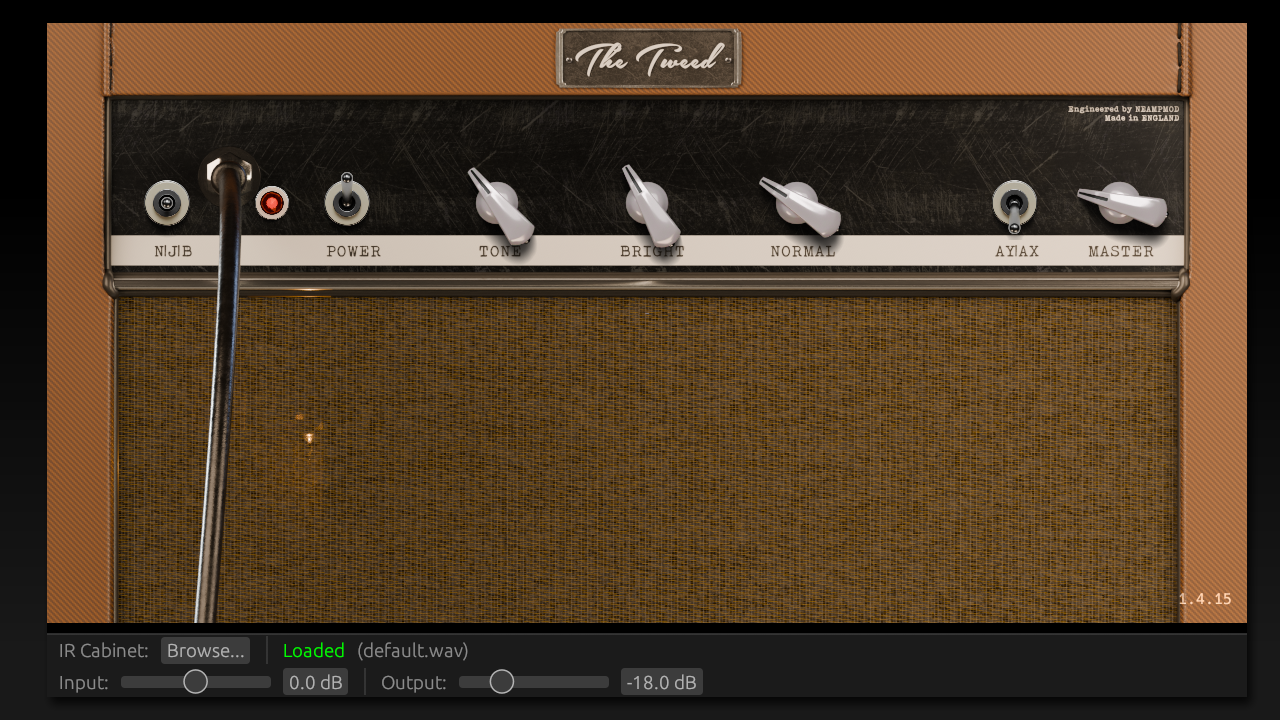
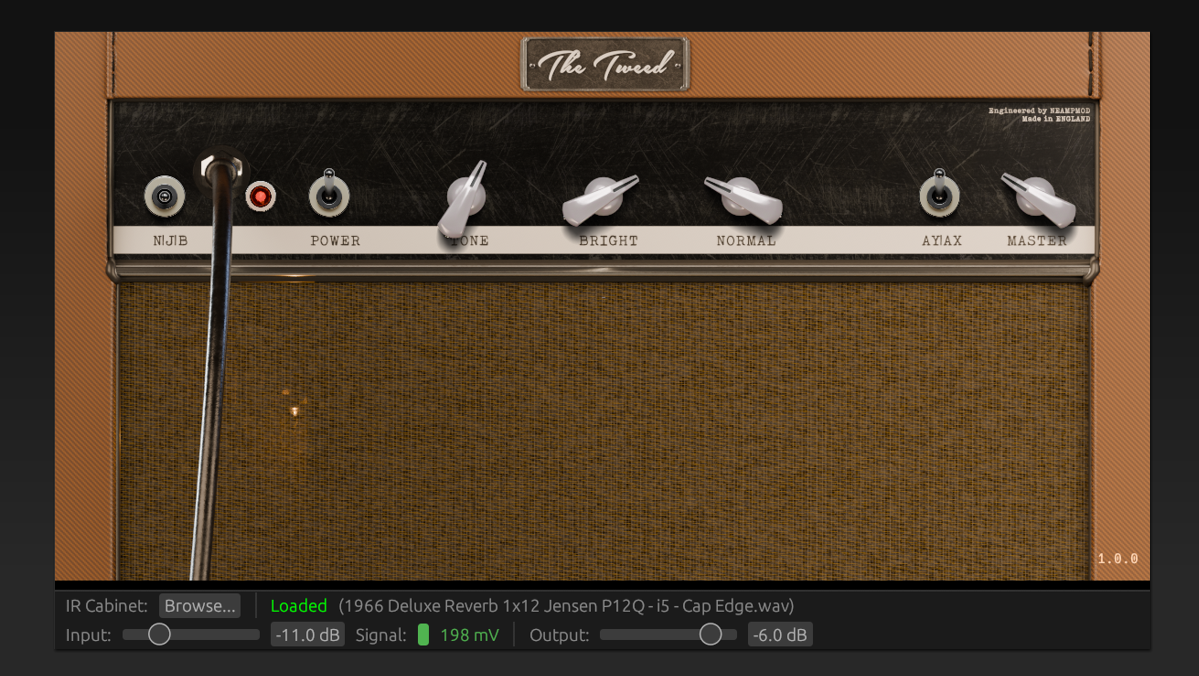
multi(engine,lut,dsp,docs): Multiple engine fixes, implemented new engine functions, added a voltage-level signal input meter, new luts, and more
* This build pulls in multiple fixes and features implemented in the neampmod-engine.
  * IRs longer than two seconds can now be loaded.
  * Improved IR loader now supports the following:

```text
* Expand WAV format support to handle a wider range of IRs:
  * IEEE Float WAV (format code 3, 32-bit)
  * 32-bit PCM integer (format code 1)
  * WAVEFORMATEXTENSIBLE containers (format code 0xFFFE)
```

* An input signal meter has been added to the gui to aid with gain calibration.
  * Documentation now covers calibration / gain settings.
* New LUTs derived from RCA datasheets have been added, and existing GE LUTs have been regenerated
  using better source data.
* The engine input calibration now defaults +12.2 dBu = 0 dBFS standard

diff --git a/src/lib.rs b/src/lib.rs
@@ -24,6 +24,8 @@ use neampmod_engine::{
     // Calibration
     InputCalibration,
     OutputCalibration,
+    // Input level metering
+    InputLevelMeter,
     // Coupling capacitors (preamp only — PI-to-power coupling handled by AmpTopology)
     CouplingCapacitor,
     // Speaker normalizer (domain transition, plugin-side)
@@ -213,9 +215,8 @@ fn build_5e3_amp_topology_config() -> AmpTopologyConfig {
     let mut config = AmpTopologyConfig::fender_5e3();
     // Enable current-based sag tracking for more responsive feel
     config.power_supply.sag = config.power_supply.sag.with_current_tracking(80.0);
-    // Poweramps use a set of curves generated using the Koren model, plotted against a General Electric 6v6gt plate characteristic chart
-    // TODO: I need to add some additional data points before switching over to the spline-based 6v6gy as it's a bit noisy in testing
-    config.power_section.power_tube_spec = Some("6v6_5e3".into());
+    // Poweramps use a set pf curves generated using PCHIP, plotted against an RCA 6v6ta with circuit parameters configured for the 5e3
+    config.power_section.power_tube_spec = Some("rca_6v6gta_5e3".into());
     // Phase Inverter uses a set of curves generated using PCHIP, plotted against a General Eletrict 12ax7 plate characteristic chart
     config.power_section.pi_spec = Some("ge_12ax7_cathodyne_56k".into());
     // Rectifier uses a singular curve generated using the Koren model, plotted against a General Electric 5y3 plate characteristic chart
@@ -285,6 +286,14 @@ pub struct TheTweed {
     volume_taper: PotTaperConfig,
     dc_blocker_output: DCBlocker,
 
+    // Input level meter (measures raw DAW signal, classifies operating zone)
+    input_meter: InputLevelMeter,
+    cached_input_trim_db: f32,
+    cached_tube_toggle: bool,
+
+    // Shared with GUI (written once per buffer from audio thread)
+    meter_peak_volts: Arc<atomic_float::AtomicF32>,
+
     // IR loading state (shared with GUI)
     ir_load_status: Arc<atomic::AtomicU8>,  // 0=pending, 1=success, 2=failed
 }
@@ -308,17 +317,34 @@ fn build_preamp_tube(
     stage
 }
 
+/// Compute the meter ceiling at the amp jack for a given V1 tube stage.
+/// ceiling = clean_ac_ceiling_volts / jack.dc_gain()
+fn meter_ceiling_for_tube(tube: &TubeStage, jack: &JackInput) -> f32 {
+    tube.voltage_cal().clean_ac_ceiling_volts() / jack.dc_gain()
+}
+
 impl Default for TheTweed {
     fn default() -> Self {
         let sample_rate = 48000.0;
+
+        // Build input chain components first — meter needs references to these
+        let input_cal = InputCalibration::amp_standard();
+        let jack_input = JackInput::new(0.0, 1_000_000.0);
+
+        // V1 tubes — build before struct so meter can read ceiling from stock tube
+        let v1a_tube_12ay7 = build_preamp_tube(sample_rate, "ge_12ay7_100k", 820.0, Some(25.0));
+        let v1a_tube_12ax7 = build_preamp_tube(sample_rate, "rca_12ax7a_100k", 820.0, Some(25.0));
+
+        // Input meter — default tube_toggle=false, so use 12AY7 ceiling
+        let meter_ceiling = meter_ceiling_for_tube(&v1a_tube_12ay7, &jack_input);
+        let input_meter = InputLevelMeter::new(sample_rate, input_cal.input_scale(), meter_ceiling);
 
         Self {
             params: Arc::new(TheTweedParams::default()),
             sample_rate,
 
-            input_cal: InputCalibration::amp_standard(),
-            // 5E3 hi input: no series grid stopper (68kΩ is on lo input only), 1MΩ grid leak
-            jack_input: JackInput::new(0.0, 1_000_000.0),
+            input_cal,
+            jack_input,
             output_cal: OutputCalibration::pro_audio_headroom(),
 
             // Full MNA model of the 5E3 mixing + tone passive network.
@@ -341,15 +367,14 @@ impl Default for TheTweed {
             preamp_bias: CathodeBias::new(CathodeBiasConfig::fender_5e3()),
 
             // V1A (Normal channel) — 820Ω shared cathode, 25µF bypass (fc≈7.7Hz, fully bypassed)
-            // v1a/v1b/v2a tubes all use LUTs generated using the PCHIP approach and are all
-            // based off of General Eletric charts
-            v1a_tube_12ay7: build_preamp_tube(sample_rate, "ge_12ay7_100k", 820.0, Some(25.0)),
-            v1a_tube_12ax7: build_preamp_tube(sample_rate, "ge_12ax7_100k", 820.0, Some(25.0)),
+            // tubes are now a mix of General Electric and RCA for preamp section
+            v1a_tube_12ay7,
+            v1a_tube_12ax7,
             // V1B (Bright channel) — same physical tube, shared cathode
             v1b_tube_12ay7: build_preamp_tube(sample_rate, "ge_12ay7_100k", 820.0, Some(25.0)),
-            v1b_tube_12ax7: build_preamp_tube(sample_rate, "ge_12ax7_100k", 820.0, Some(25.0)),
+            v1b_tube_12ax7: build_preamp_tube(sample_rate, "rca_12ax7a_100k", 820.0, Some(25.0)),
             // V2A (12AX7 gain stage) — 1500Ω cathode, 25µF bypass (fc≈4.2Hz, fully bypassed)
-            v2a_tube: build_preamp_tube(sample_rate, "ge_12ax7_100k", 1500.0, Some(25.0)),
+            v2a_tube: build_preamp_tube(sample_rate, "rca_12ax7a_100k", 1500.0, Some(25.0)),
 
             // Passive coupling caps (V1 plate → volume/mixing, no grid conduction)
             coupling_v1: CouplingCapacitor::new(sample_rate, 0.1e-6, 1_000_000.0),
@@ -390,6 +415,14 @@ impl Default for TheTweed {
             ir_block_size: 512,
 
             dc_blocker_output: DCBlocker::new(sample_rate, 10.0),
+
+            // Input level meter
+            input_meter,
+            cached_input_trim_db: 0.0,
+            cached_tube_toggle: false,
+
+            // Shared meter state (written by audio thread, read by GUI)
+            meter_peak_volts: Arc::new(atomic_float::AtomicF32::new(0.0)),
 
             // IR loading state (shared with GUI)
             ir_load_status: Arc::new(atomic::AtomicU8::new(1)),  // Start with success (embedded IR)
@@ -497,12 +530,12 @@ impl Plugin for TheTweed {
 
         // V1A (Normal) — 820Ω shared cathode, 25µF bypass (fc≈7.7Hz)
         self.v1a_tube_12ay7 = build_preamp_tube(self.sample_rate, "ge_12ay7_100k", 820.0, Some(25.0));
-        self.v1a_tube_12ax7 = build_preamp_tube(self.sample_rate, "ge_12ax7_100k", 820.0, Some(25.0));
+        self.v1a_tube_12ax7 = build_preamp_tube(self.sample_rate, "rca_12ax7a_100k", 820.0, Some(25.0));
         // V1B (Bright) — same physical tube, shared cathode
         self.v1b_tube_12ay7 = build_preamp_tube(self.sample_rate, "ge_12ay7_100k", 820.0, Some(25.0));
-        self.v1b_tube_12ax7 = build_preamp_tube(self.sample_rate, "ge_12ax7_100k", 820.0, Some(25.0));
+        self.v1b_tube_12ax7 = build_preamp_tube(self.sample_rate, "rca_12ax7a_100k", 820.0, Some(25.0));
         // V2A (12AX7 gain stage) — 1500Ω cathode, 25µF bypass (fc≈4.2Hz)
-        self.v2a_tube = build_preamp_tube(self.sample_rate, "ge_12ax7_100k", 1500.0, Some(25.0));
+        self.v2a_tube = build_preamp_tube(self.sample_rate, "rca_12ax7a_100k", 1500.0, Some(25.0));
 
         // Passive coupling caps (V1 plate → volume/mixing)
         self.coupling_v1 = CouplingCapacitor::new(self.sample_rate, 0.1e-6, 1_000_000.0);
@@ -553,6 +586,20 @@ impl Plugin for TheTweed {
 
         self.dc_blocker_output = DCBlocker::new(self.sample_rate, 10.0);
 
+        // Sync input trim into InputCalibration and rebuild meter
+        let trim_db = self.params.input_trim_db.value();
+        self.input_cal.set_user_trim_db(trim_db);
+        self.cached_input_trim_db = trim_db;
+        let tube_toggle = self.params.tube_toggle.value();
+        self.cached_tube_toggle = tube_toggle;
+        let v1_tube = if tube_toggle { &self.v1a_tube_12ax7 } else { &self.v1a_tube_12ay7 };
+        let ceiling = meter_ceiling_for_tube(v1_tube, &self.jack_input);
+        self.input_meter = InputLevelMeter::new(
+            self.sample_rate,
+            self.input_cal.input_scale(),
+            ceiling,
+        );
+
         true
     }
 
@@ -594,6 +641,9 @@ impl Plugin for TheTweed {
         self.pre_ir_buffer.fill(0.0);
         self.post_ir_buffer.fill(0.0);
         self.dc_blocker_output.reset();
+
+        // Reset input meter
+        self.input_meter.reset();
     }
 
     fn process(
@@ -677,6 +727,22 @@ impl Plugin for TheTweed {
         let power_on = self.params.power.value();
         let mut sample_idx = 0usize;
 
+        // === INPUT TRIM → InputCalibration (once per buffer, change-detected) ===
+        let current_trim_db = self.params.input_trim_db.value();
+        if (current_trim_db - self.cached_input_trim_db).abs() > 0.01 {
+            self.cached_input_trim_db = current_trim_db;
+            self.input_cal.set_user_trim_db(current_trim_db);
+            self.input_meter.set_input_scale(self.input_cal.input_scale());
+        }
+
+        // === TUBE TOGGLE → meter ceiling (once per buffer, change-detected) ===
+        let current_tube_toggle = self.params.tube_toggle.value();
+        if current_tube_toggle != self.cached_tube_toggle {
+            self.cached_tube_toggle = current_tube_toggle;
+            let v1_tube = if current_tube_toggle { &self.v1a_tube_12ax7 } else { &self.v1a_tube_12ay7 };
+            self.input_meter.set_clean_ceiling_v(meter_ceiling_for_tube(v1_tube, &self.jack_input));
+        }
+
         // === AmpTopology: begin buffer ===
         // Routes impedance feedback from previous buffer, prepares power supply interpolation
         self.amp_topology.begin_buffer(num_samples);
@@ -703,10 +769,11 @@ impl Plugin for TheTweed {
                 let tone = self.params.tone.smoothed.next();
                 let channel_mode = self.params.channel_select.value();
 
-                // === INPUT CALIBRATION ===
+                // === INPUT LEVEL METER (raw DAW signal, before calibration) ===
+                self.input_meter.process(input);
+
+                // === INPUT CALIBRATION (includes user trim via set_user_trim_db) ===
                 let mut signal = self.input_cal.process(input);
-                let input_trim = self.params.input_trim_db.smoothed.next();
-                signal *= neampmod_engine::db_to_linear(input_trim);
 
                 // === INPUT JACK VOLTAGE DIVIDER ===
                 signal = self.jack_input.process(signal);
@@ -815,6 +882,10 @@ impl Plugin for TheTweed {
             }
         }
 
+        // === METER: snapshot metrics for GUI (once per buffer) ===
+        let metrics = self.input_meter.get_metrics();
+        self.meter_peak_volts.store(metrics.peak_volts, atomic::Ordering::Relaxed);
+
         ProcessStatus::Normal
     }
 
@@ -826,10 +897,11 @@ impl Plugin for TheTweed {
             let params = self.params.clone();
             let ir_status = self.ir_load_status.clone();
             let ir_path = self.params.ir_file_path.clone();
+            let meter_peak_volts = self.meter_peak_volts.clone();
 
             create_egui_editor(
                 EguiState::from_size(800, 450),
-                gui::GuiState::new(ir_status, ir_path),
+                gui::GuiState::new(ir_status, ir_path, meter_peak_volts),
                 |_, _| {},
                 move |egui_ctx, setter, state| {
                     gui::create(egui_ctx, setter, &params, state)

diff --git a/src/gui.rs b/src/gui.rs
@@ -124,13 +124,19 @@ pub fn default_state() {
 pub struct GuiState {
     pub ir_status: Arc<atomic::AtomicU8>,
     pub ir_path: Arc<Mutex<String>>,
+    pub meter_peak_volts: Arc<atomic_float::AtomicF32>,
 }
 
 impl GuiState {
-    pub fn new(ir_status: Arc<atomic::AtomicU8>, ir_path: Arc<Mutex<String>>) -> Self {
+    pub fn new(
+        ir_status: Arc<atomic::AtomicU8>,
+        ir_path: Arc<Mutex<String>>,
+        meter_peak_volts: Arc<atomic_float::AtomicF32>,
+    ) -> Self {
         Self {
             ir_status,
             ir_path,
+            meter_peak_volts,
         }
     }
 }
@@ -196,18 +202,49 @@ pub fn create(
                 }
             });
 
-            // Second row: Calibration controls
+            // Second row: Calibration controls + input level zone
             ui.horizontal(|ui| {
                 // Input calibration slider
                 ui.label("Input:");
                 let mut input_trim = params.input_trim_db.unmodulated_plain_value();
                 if ui.add(
-                    egui::Slider::new(&mut input_trim, -12.0..=12.0)
+                    egui::Slider::new(&mut input_trim, -18.0..=12.0)
                         .suffix(" dB")
                         .fixed_decimals(1)
                 ).changed() {
                     setter.set_parameter(&params.input_trim_db, input_trim);
                 }
+
+                // Input level indicator — shows physical voltage at V1a grid
+                // Color bands based on real-world guitar pickup output ranges
+                let peak_v = state.meter_peak_volts.load(atomic::Ordering::Relaxed);
+                let peak_mv = peak_v * 1000.0;
+                let zone_color = if peak_mv < 10.0 {
+                    egui::Color32::from_rgb(100, 100, 100)  // Gray: silent
+                } else if peak_mv <= 800.0 {
+                    egui::Color32::from_rgb(80, 180, 80)    // Green: typical guitar range
+                } else if peak_mv <= 1500.0 {
+                    egui::Color32::from_rgb(220, 200, 40)   // Yellow: hot / active pickup
+                } else {
+                    egui::Color32::from_rgb(200, 50, 50)    // Red: too hot
+                };
+
+                ui.label("Signal:");
+
+                // Colored zone rectangle
+                let (rect, _) = ui.allocate_exact_size(
+                    Vec2::new(8.0, 16.0),
+                    egui::Sense::hover(),
+                );
+                ui.painter().rect_filled(rect, 2.0, zone_color);
+
+                // Peak voltage — always show, default to 000 mV when silent
+                let voltage_text = if peak_v >= 1.0 {
+                    format!("{:.2} V", peak_v)
+                } else {
+                    format!("{:03.0} mV", peak_mv)
+                };
+                ui.colored_label(zone_color, voltage_text);
 
                 ui.separator();
 
@@ -215,7 +252,7 @@ pub fn create(
                 ui.label("Output:");
                 let mut output_trim = params.output_trim_db.unmodulated_plain_value();
                 if ui.add(
-                    egui::Slider::new(&mut output_trim, -24.0..=0.0)
+                    egui::Slider::new(&mut output_trim, -24.0..=-3.0)
                         .suffix(" dB")
                         .fixed_decimals(1)
                 ).changed() {

diff --git a/README.md b/README.md
@@ -32,7 +32,36 @@ The plugin includes a `default.wav` IR file, I strongly suggest loading a higher
 the best out of the plugin; The following sources provide excellent impulse response files:
 
 * [Origin Effects IR Cab Library](https://origineffects.com/product/ir-cab-library/)
-* [Tone3000](https://tone3000.com/) # Search / Filter for IRs
+* [Tone3000](https://tone3000.com/)
+
+### Tone3000 IR Files
+
+I would suggest searching for Fender IRs on [Tone3000](https://tone3000.com/), there are a range of high-quality IRs with multiple microphones,
+and microphone positions.
+
+## Gain Setup
+
+The `Signal` level meter displays the signal voltage as the simulated amplifier's input jack would see it. 
+
+Use this to calibrate your signal chain to the physically correct operating range for the 1957 Fender® 5E3 Deluxe amplifier.
+
+Expected voltage ranges by pickup type:
+
+* Passive single-coils: 80 - 150mV moderate playing, 200–350mV hard attack
+* Passive humbuckers: 150 - 350mV moderate playing, 400–700mV hard attack
+* Active pickups: 500mV - 1.5V
+
+### Calibration workflow
+
+* Set your interface gain so hard playing peaks are comfortable and well below the clip LED — around -12 to -18 dBFS in your DAW if visible
+* Play normally across your full dynamic range
+* Use the input trim to bring the meter into the expected range for your pickup type
+  * If the signal sits consistently above the expected range, reduce trim — you are driving the first tube stage harder than the real circuit would be driven
+  * If it sits below, increase trim or add interface gain
+
+Where the signal lands on the meter determines where `V1A` operates on its transfer curve — too high and the amp
+will behave as if a boost pedal is already in the chain; too low and you will lose the touch sensitivity that emerges 
+near the operating point.
 
 ## Reporting Issues
 